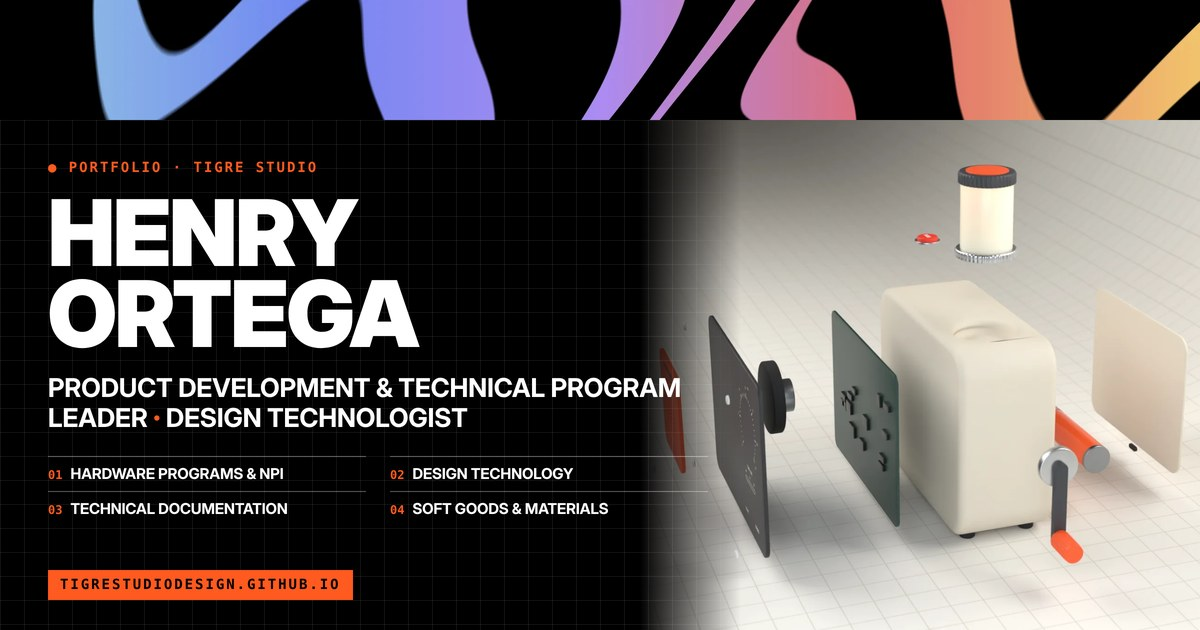
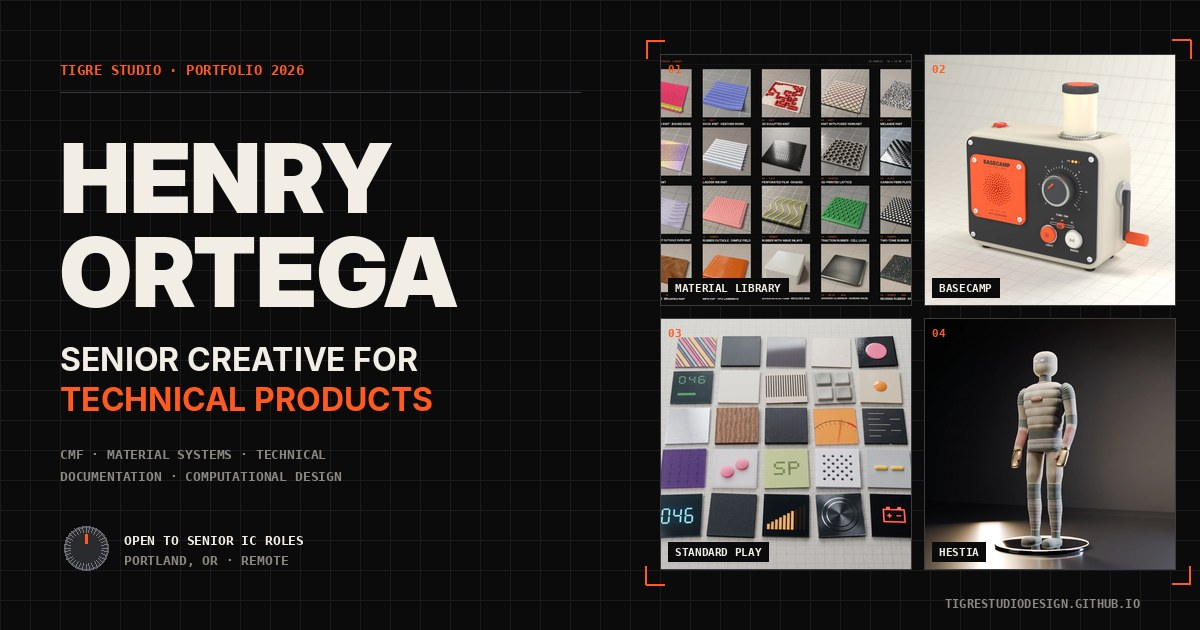
Cover image for the artifact gallery card and link previews (built into every artifact build); share card and meta titles updated to Senior Creative for Technical Products
Claude-Session: https://claude.ai/code/session_01TNyScxA4ueG31KUfSXNFLU

diff --git a/index.html b/index.html
@@ -177,11 +177,11 @@ table.spc-t td{vertical-align:middle}.spc-chip{display:inline-flex;align-items:c
 @media (prefers-reduced-motion:reduce){.spc-svg [class^="a-"],.spc-svg [class*=" a-"]{animation:none!important;opacity:1!important}.spc-draw .spc-svg,.spc-svg .z-obj,.spc-svg .z-pin,.spc-svg .pin{transition:none}}
 .arch-g{margin-top:40px}.arch-h{display:flex;align-items:baseline;gap:16px;flex-wrap:wrap;border-top:2px solid currentColor;padding-top:12px}.arch-h h3{margin:0;font-size:18px;letter-spacing:.02em}.arch-h span{font:11px var(--mono);letter-spacing:.06em;text-transform:uppercase;opacity:.6}.arch ol{list-style:none;margin:8px 0 0;padding:0;display:grid;grid-template-columns:repeat(3,minmax(0,1fr));column-gap:28px}.arch li a{display:grid;grid-template-columns:30px minmax(0,1fr) auto;gap:2px 10px;align-items:baseline;padding:12px 0;border-bottom:1px solid color-mix(in srgb,currentColor 14%,transparent);text-decoration:none;color:inherit}.arch li b{font:700 11px var(--mono);color:#FF5A1F}.arch li span{font-weight:600}.arch li em{grid-column:2;font:10px var(--mono);font-style:normal;letter-spacing:.08em;text-transform:uppercase;opacity:.6}.arch li i{grid-row:1/3;grid-column:3;font-style:normal;color:#FF5A1F;transition:transform .2s}.arch li a:hover i{transform:translateX(4px)}.arch li a:hover span{color:#FF5A1F}
 @media(max-width:900px){.arch ol{grid-template-columns:1fr 1fr}}@media(max-width:560px){.arch ol{grid-template-columns:1fr}}
-</style><title>Henry Ortega · Computational Product Designer · Footwear, Soft Goods &amp; Wearables</title><meta name="description" content="Henry Ortega: footwear innovation and computational product designer, from concept to production. Rhino, Grasshopper, CMF, 3D and technical documentation. 16+ years at Nike turning new technology into the manuals and visual systems 50+ launches were built from. Tigre Studio, Portland, OR.">
+</style><title>Henry Ortega · Senior Creative for Technical Products</title><meta name="description" content="Senior creative for technical products: CMF, material systems, technical documentation and computational design. 16+ years in footwear innovation. Tigre Studio, Portland, OR · open to senior IC roles.">
 <meta property="og:type" content="website">
 <meta property="og:url" content="https://tigrestudiodesign.github.io/">
-<meta property="og:title" content="Henry Ortega · Computational Product Designer · Footwear, Soft Goods &amp; Wearables">
-<meta property="og:description" content="Footwear innovation and computational product design, from concept to production: Rhino, Grasshopper, CMF, 3D and technical documentation. 16+ years at Nike. Tigre Studio, Portland, OR.">
+<meta property="og:title" content="Henry Ortega · Senior Creative for Technical Products">
+<meta property="og:description" content="Senior creative for technical products: CMF, material systems, technical documentation and computational design. 16+ years in footwear innovation. Tigre Studio, Portland, OR · open to senior IC roles.">
 <meta property="og:image" content="https://tigrestudiodesign.github.io/img/og-card.jpg">
 <meta property="og:image:width" content="1200">
 <meta property="og:image:height" content="630">

diff --git a/tools/make_thumb.py b/tools/make_thumb.py
@@ -1,0 +1,61 @@
+"""Cover image for the portfolio artifact's gallery card and link previews.
+Run from the repo root:  python3 tools/make_thumb.py   ->  tools/artifact_thumb.png (1200x630, under 1 MB)
+tools/build_artifact.py copies it into the artifact as thumb.png and links it from the page head."""
+from PIL import Image, ImageDraw, ImageFont, ImageOps
+
+W, H = 1200, 630
+BG, GRID, ORANGE, INK, MUTED = (11, 11, 12), (27, 27, 30), (255, 90, 31), (242, 238, 230), (140, 136, 128)
+F = '/usr/share/fonts/opentype/inter/'
+black = lambda s: ImageFont.truetype(F + 'InterDisplay-Black.otf' if __import__('os').path.exists(F + 'InterDisplay-Black.otf') else F + 'Inter-Black.otf', s)
+bold = lambda s: ImageFont.truetype(F + 'Inter-Bold.otf', s)
+mono = lambda s: ImageFont.truetype('/usr/share/fonts/truetype/dejavu/DejaVuSansMono-Bold.ttf', s)
+
+im = Image.new('RGB', (W, H), BG)
+d = ImageDraw.Draw(im)
+for x in range(0, W, 30): d.line([(x, 0), (x, H)], fill=GRID)
+for y in range(0, H, 30): d.line([(0, y), (W, y)], fill=GRID)
+
+# project mosaic, right side: 2 x 2 tiles
+tiles = ['img/ml__board_vz.webp', 'img/bc2__hero.webp', 'img/spvz__shelf.webp', 'img/hk__hero.webp']
+labels = ['MATERIAL LIBRARY', 'BASECAMP', 'STANDARD PLAY', 'HESTIA']
+tw, th, gap, x0, y0 = 252, 252, 12, 660, 54
+for i, (p, lab) in enumerate(zip(tiles, labels)):
+    x, y = x0 + (i % 2) * (tw + gap), y0 + (i // 2) * (th + gap)
+    t = ImageOps.fit(Image.open(p).convert('RGB'), (tw, th), Image.LANCZOS, centering=(0.5, 0.5))
+    im.paste(t, (x, y))
+    d.rectangle([x, y, x + tw - 1, y + th - 1], outline=(60, 60, 64))
+    lw = d.textlength(lab, font=mono(11))
+    d.rectangle([x + 8, y + th - 28, x + 8 + lw + 14, y + th - 9], fill=BG)
+    d.text((x + 15, y + th - 25), lab, font=mono(11), fill=INK)
+    d.text((x + 8, y + 8), f'{i + 1:02d}', font=mono(11), fill=ORANGE)
+
+# corner ticks around the mosaic
+mx0, my0, mx1, my1 = x0 - 14, y0 - 14, x0 + 2 * tw + gap + 14, y0 + 2 * th + gap + 14
+for cx, cy, sx, sy in [(mx0, my0, 1, 1), (mx1, my0, -1, 1), (mx0, my1, 1, -1), (mx1, my1, -1, -1)]:
+    d.line([(cx, cy), (cx + 18 * sx, cy)], fill=ORANGE, width=2)
+    d.line([(cx, cy), (cx, cy + 18 * sy)], fill=ORANGE, width=2)
+
+# type, left side
+X = 60
+d.text((X, 62), 'TIGRE STUDIO · PORTFOLIO 2026', font=mono(14), fill=ORANGE)
+d.line([(X, 92), (X + 520, 92)], fill=(60, 60, 64), width=1)
+d.text((X, 120), 'HENRY', font=black(96), fill=INK)
+d.text((X, 214), 'ORTEGA', font=black(96), fill=INK)
+d.text((X, 340), 'SENIOR CREATIVE FOR', font=bold(32), fill=INK)
+d.text((X, 380), 'TECHNICAL PRODUCTS', font=bold(32), fill=ORANGE)
+d.text((X, 446), 'CMF · MATERIAL SYSTEMS · TECHNICAL', font=mono(13), fill=MUTED)
+d.text((X, 468), 'DOCUMENTATION · COMPUTATIONAL DESIGN', font=mono(13), fill=MUTED)
+# knurled dial accent
+cx, cy, r = X + 26, 548, 22
+d.ellipse([cx - r, cy - r, cx + r, cy + r], fill=(42, 43, 47), outline=(90, 92, 98), width=2)
+import math
+for k in range(36):
+    a = k * math.pi / 18
+    d.line([(cx + (r - 6) * math.cos(a), cy + (r - 6) * math.sin(a)), (cx + r * math.cos(a), cy + r * math.sin(a))], fill=(120, 122, 128), width=1)
+d.line([(cx, cy - 14), (cx, cy - 5)], fill=ORANGE, width=3)
+d.text((X + 64, 532), 'OPEN TO SENIOR IC ROLES', font=mono(13), fill=INK)
+d.text((X + 64, 552), 'PORTLAND, OR · REMOTE', font=mono(13), fill=MUTED)
+d.text((W - 60, H - 34), 'TIGRESTUDIODESIGN.GITHUB.IO', font=mono(12), fill=MUTED, anchor='ra')
+
+im.save('tools/artifact_thumb.png', optimize=True)
+print('tools/artifact_thumb.png', __import__('os').path.getsize('tools/artifact_thumb.png') // 1000, 'KB')

diff --git a/tools/build_artifact.py b/tools/build_artifact.py
@@ -117,6 +117,11 @@ i = s.find('<script>')
 assert i > 0
 s = s[:i + 8] + LOADER + s[i + 8:]
 s = s.replace('</body>', '<script>document.querySelectorAll("img[data-pk]").forEach(pkFill)</script></body>', 1)
+# cover for the artifact's gallery card and link previews (tools/make_thumb.py makes it)
+THUMB = os.path.exists('tools/artifact_thumb.png')
+if THUMB:
+    s = s.replace('</title>', '</title><link rel="artifact-thumbnail" href="thumb.png">', 1)
+    open(OUT + '/thumb.png', 'wb').write(open('tools/artifact_thumb.png', 'rb').read())
 _ix = OUT + '/index.html'
 if os.path.islink(_ix): os.remove(_ix)
 open(_ix, 'w').write(s)
@@ -131,6 +136,7 @@ for f in sorted(set(re.findall(r'url\((fonts/[^)]+)\)', s)) | css | {'data/ka_at
             if os.path.islink(dst) or os.path.exists(dst): os.remove(dst)   # never write through a symlink into the repo
             open(dst, 'wb').write(open(f, 'rb').read())
         files.append(f)
+if THUMB: files.append('thumb.png')
 json.dump(files, open(OUT + '/files.json', 'w'), indent=0)
 tot = sum(os.path.getsize(OUT + '/' + f) for f in files)
 big = max(os.path.getsize(OUT + '/' + f) for f in files)
